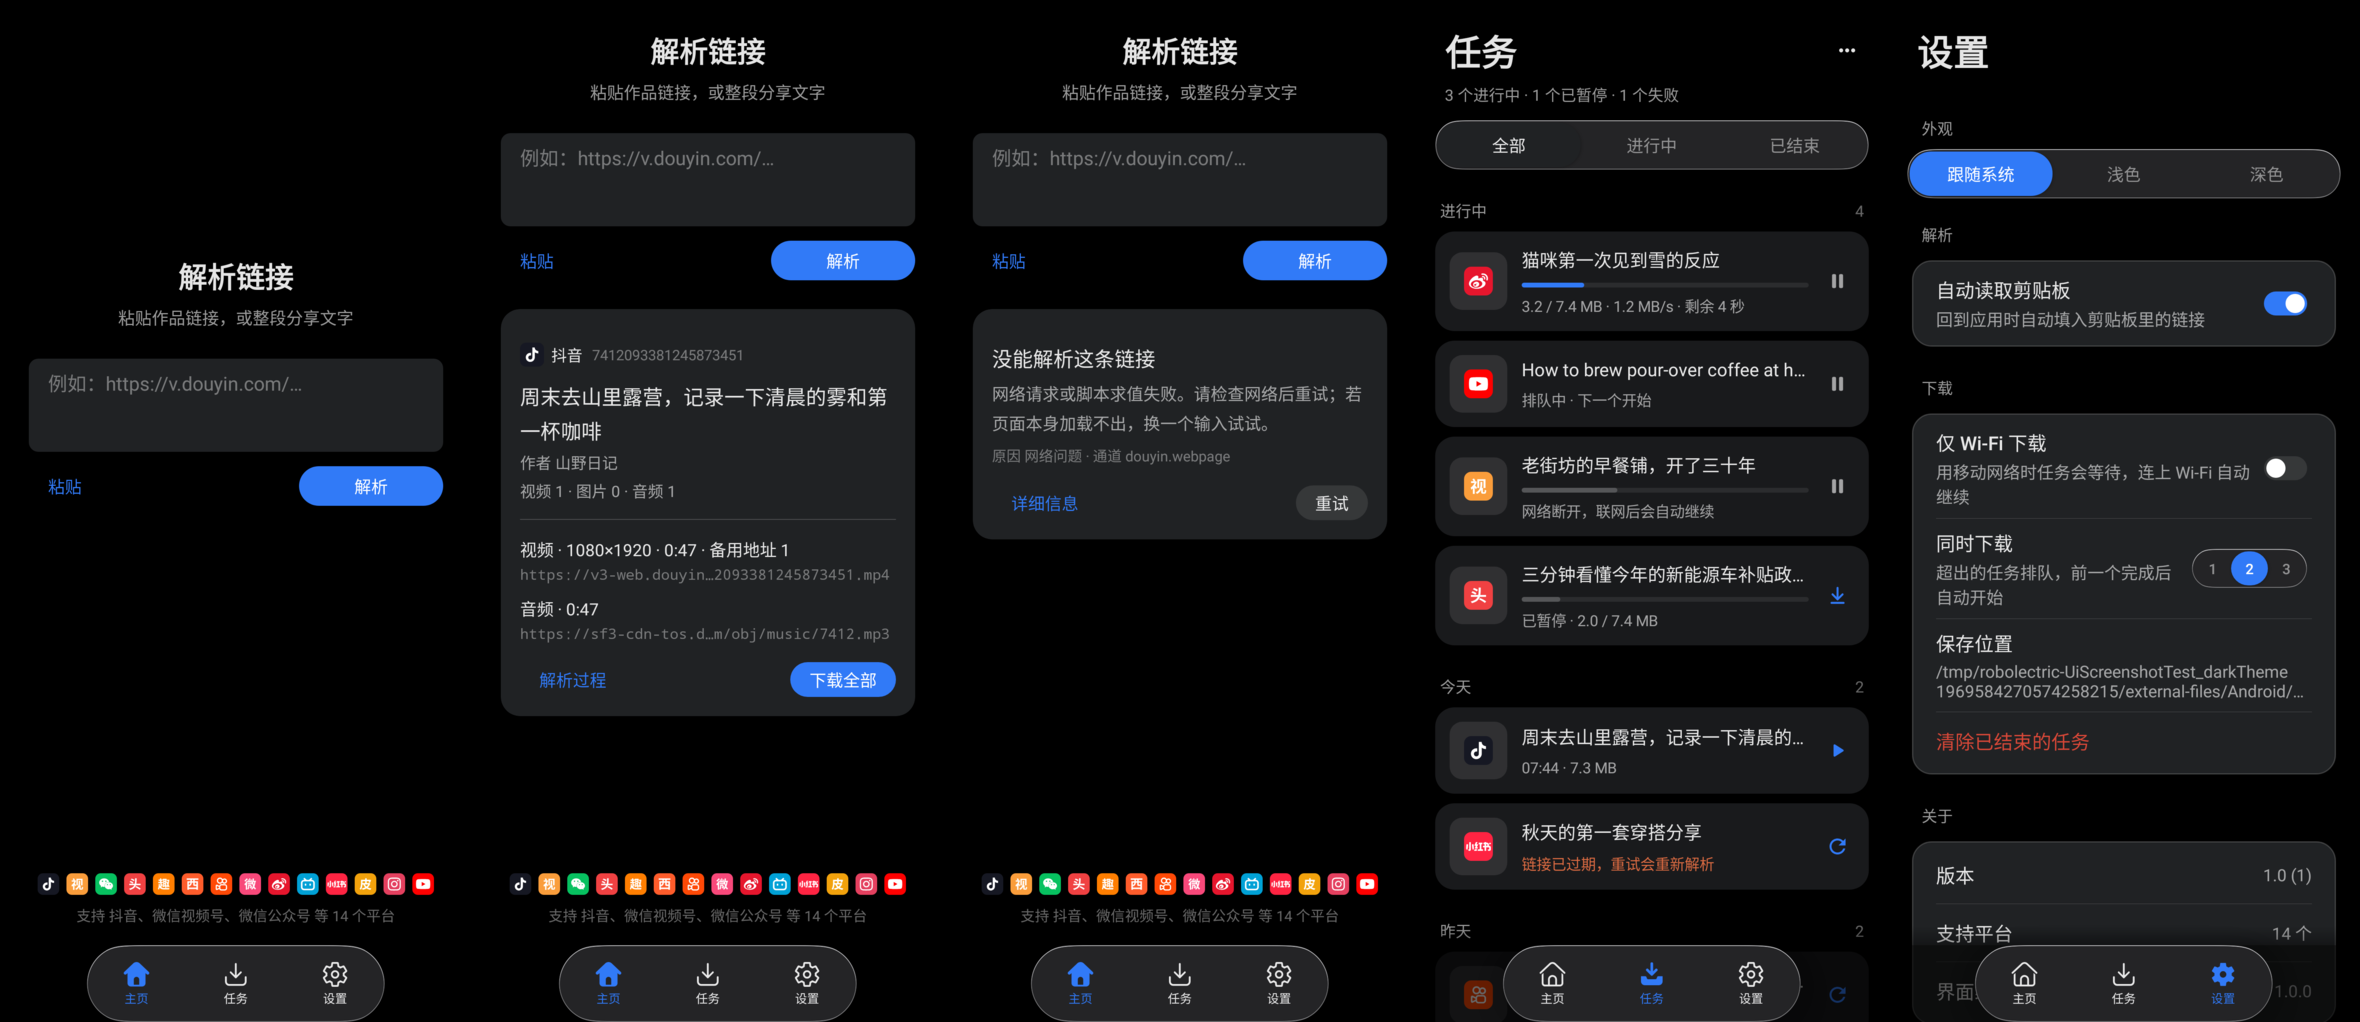
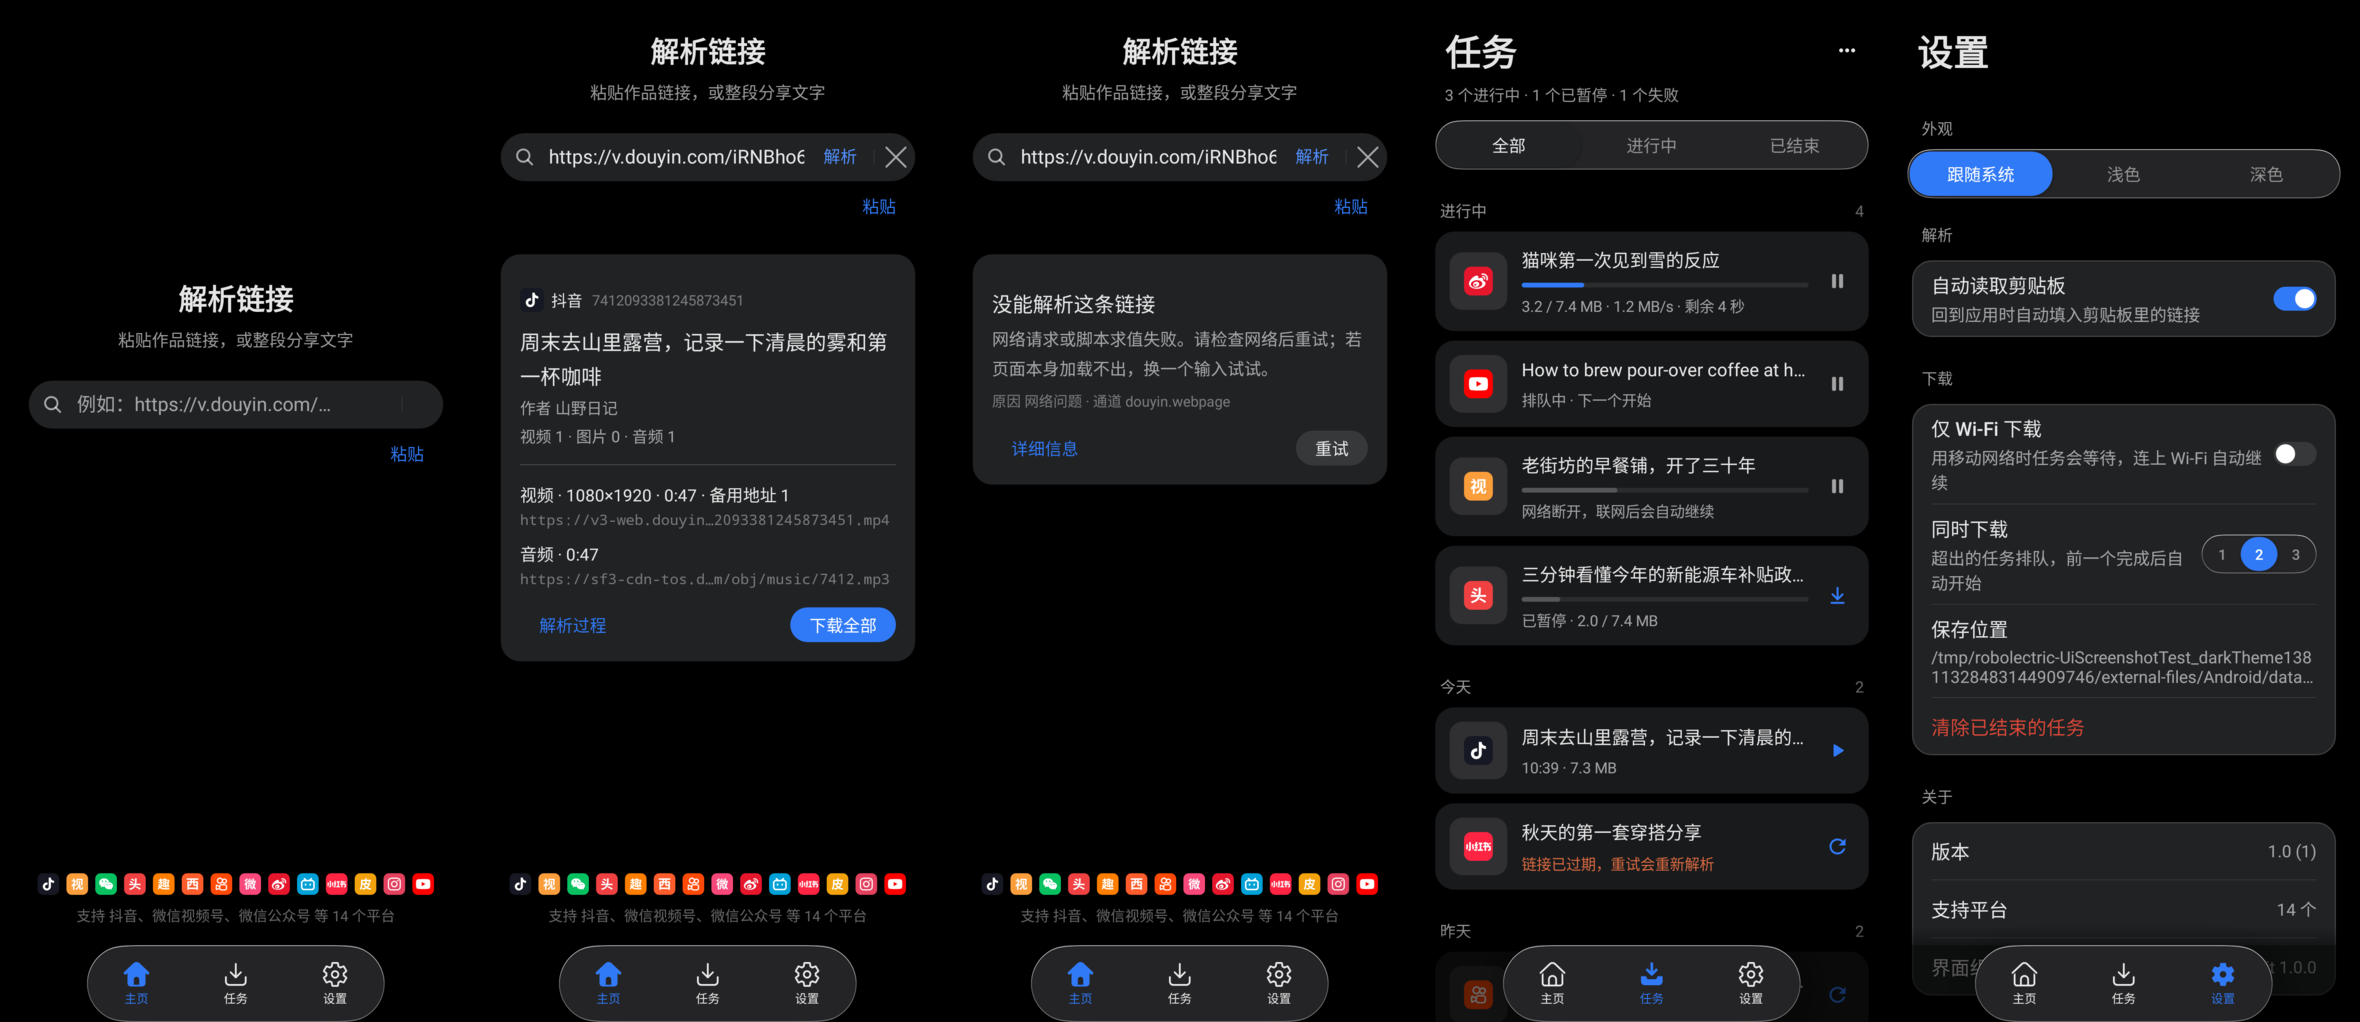
docs: 主页规格改为搜索栏，补页签切换验收项，刷新截图

diff --git a/docs/design/07-操作流程.md b/docs/design/07-操作流程.md
@@ -7,9 +7,9 @@
 
 ```mermaid
 flowchart TD
-    A[入口] -->|主页粘贴 / 剪贴板自动填入| B[输入框]
+    A[入口] -->|主页粘贴 / 剪贴板自动填入| B[搜索栏]
     A -->|其他 App 分享 → “解析并下载”| B
-    B -->|点“解析”| C{解析}
+    B -->|点“解析” / 回车| C{解析}
     C -->|失败| F[失败卡：结论 + 提示 + 原因/通道<br/>可重试时给“重试”]
     F -->|重试| C
     C -->|成功| R[结果卡：平台图标 · 作品 ID / 标题 / 作者 / 媒体明细]
@@ -27,8 +27,8 @@ flowchart TD
 
 要点：
 
-- **入口只有一个输入框。** 主页粘贴、剪贴板自动填入（设置可关）、系统分享（`ACTION_SEND text/plain`，
-  分享面板里显示“解析并下载”）最终都落到同一个输入框并立即解析；分享进来的文字可以是整段文案，引擎自己找链接。
+- **入口只有一个搜索栏。** 主页粘贴、剪贴板自动填入（设置可关）、系统分享（`ACTION_SEND text/plain`，
+  分享面板里显示“解析并下载”）最终都落到同一个搜索栏并立即解析；分享进来的文字可以是整段文案，引擎自己找链接。
 - **一个结果只排一次队。** 加入后按钮变成“查看任务”，不再是禁用的“已加入”——给下一步，而不是给死路。
 - **重复检测按原链接。** 同一链接已有未结束的任务时不再新建；已完成且文件还在时先问，确认后才再下一份。
   已完成但文件被删了，视为没有，直接排队。

diff --git a/README.md b/README.md
@@ -68,7 +68,7 @@ $env:JAVA_HOME = "D:\Dev\Env\Java\jdk-21"
 - `lib_urlparse` 三个架构边界校验任务挂在 `check` 上，越界直接构建失败。
 - 下载子系统在 `app`：`task/DownloadRunner` 调度，`download/DownloadPipeline` 处理直链（`lib_download`）/ M3U8 / 音视频合并 / 校验。
 - 解析通道与真机验证进度以 [docs/verification](docs/verification/) 为准。
-- app 界面：底部三页签（YoTabs 悬浮胶囊，随滚动隐藏）。主页是居中的统一输入框，粘贴链接或整段分享文字即可识别并解析；
+- app 界面：底部三页签（YoTabs 悬浮胶囊，随滚动隐藏）。主页是居中的统一搜索栏（YoSearch，内嵌“解析”按钮），粘贴链接或整段分享文字即可识别并解析；
   其他 App 的分享面板里选“解析并下载”也能直接进来。同一链接重复下载会先提醒。
   任务页是卡片列表（缩略图兼平台标识 / 标题 + 进度 + 状态 / 一个主操作），按「全部 / 进行中 / 已结束」筛选，
   卡片上暂停 / 继续 / 重试 / 打开，长按取消 / 分享 / 删除，页菜单全部暂停 / 全部继续。
